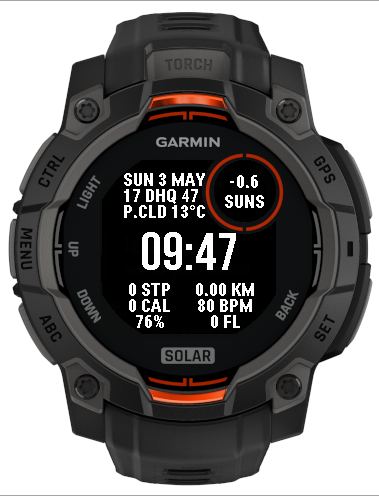
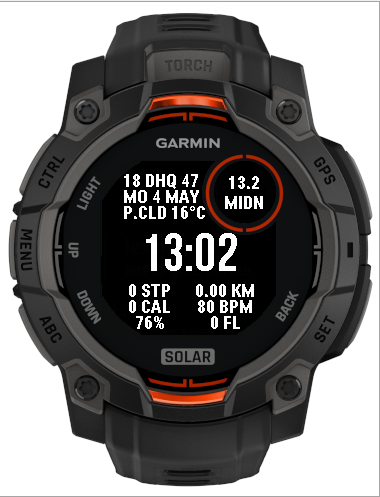
flip gregorian and hijri date lines and shorten weekdays to 2-letters

diff --git a/README.md b/README.md
@@ -8,8 +8,8 @@ A data-heavy Connect IQ watch face designed for the **Garmin Instinct 3 Solar 45
 
 ### Date Display
 
-- **Gregorian date**: Weekday (3-letter abbreviation), day, and 3-letter month (e.g., `SUN 26 APR`)
 - **Hijri date**: Day, 3-letter month abbreviation, and 2-digit year (e.g., `26 SHA 29`)
+- **Gregorian date**: Weekday (2-letter abbreviation), day, and 3-letter month (e.g., `SU 26 APR`)
 - **Hijri adjustment**: Configurable ±2 day offset to align tabular Hijri calculations with local moon sighting
 
 ### Time Display
